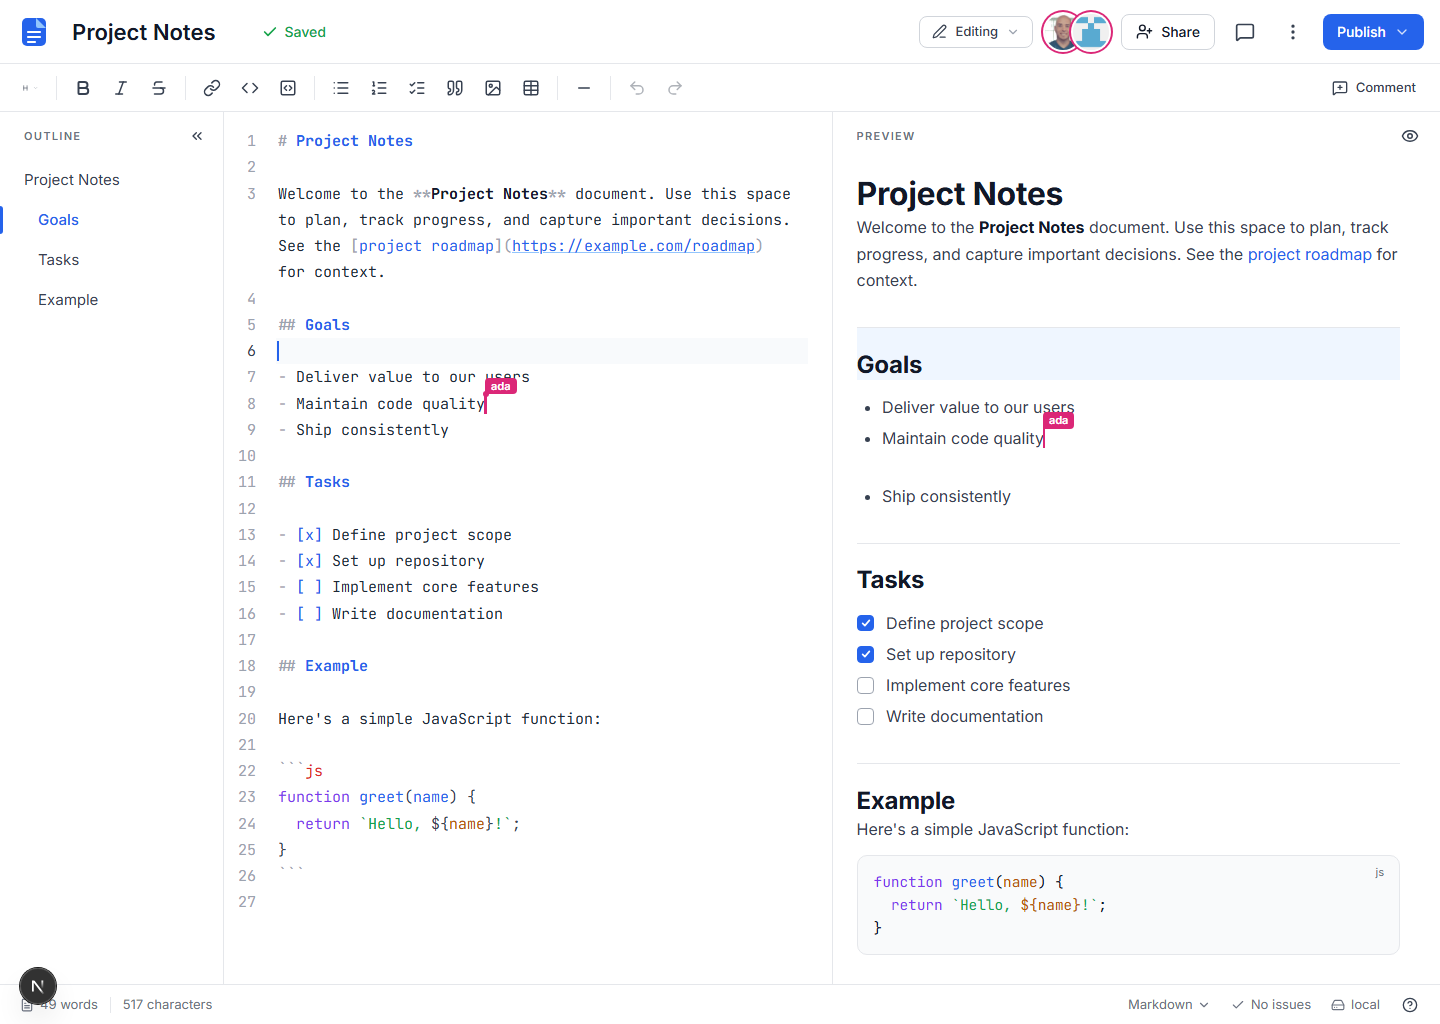
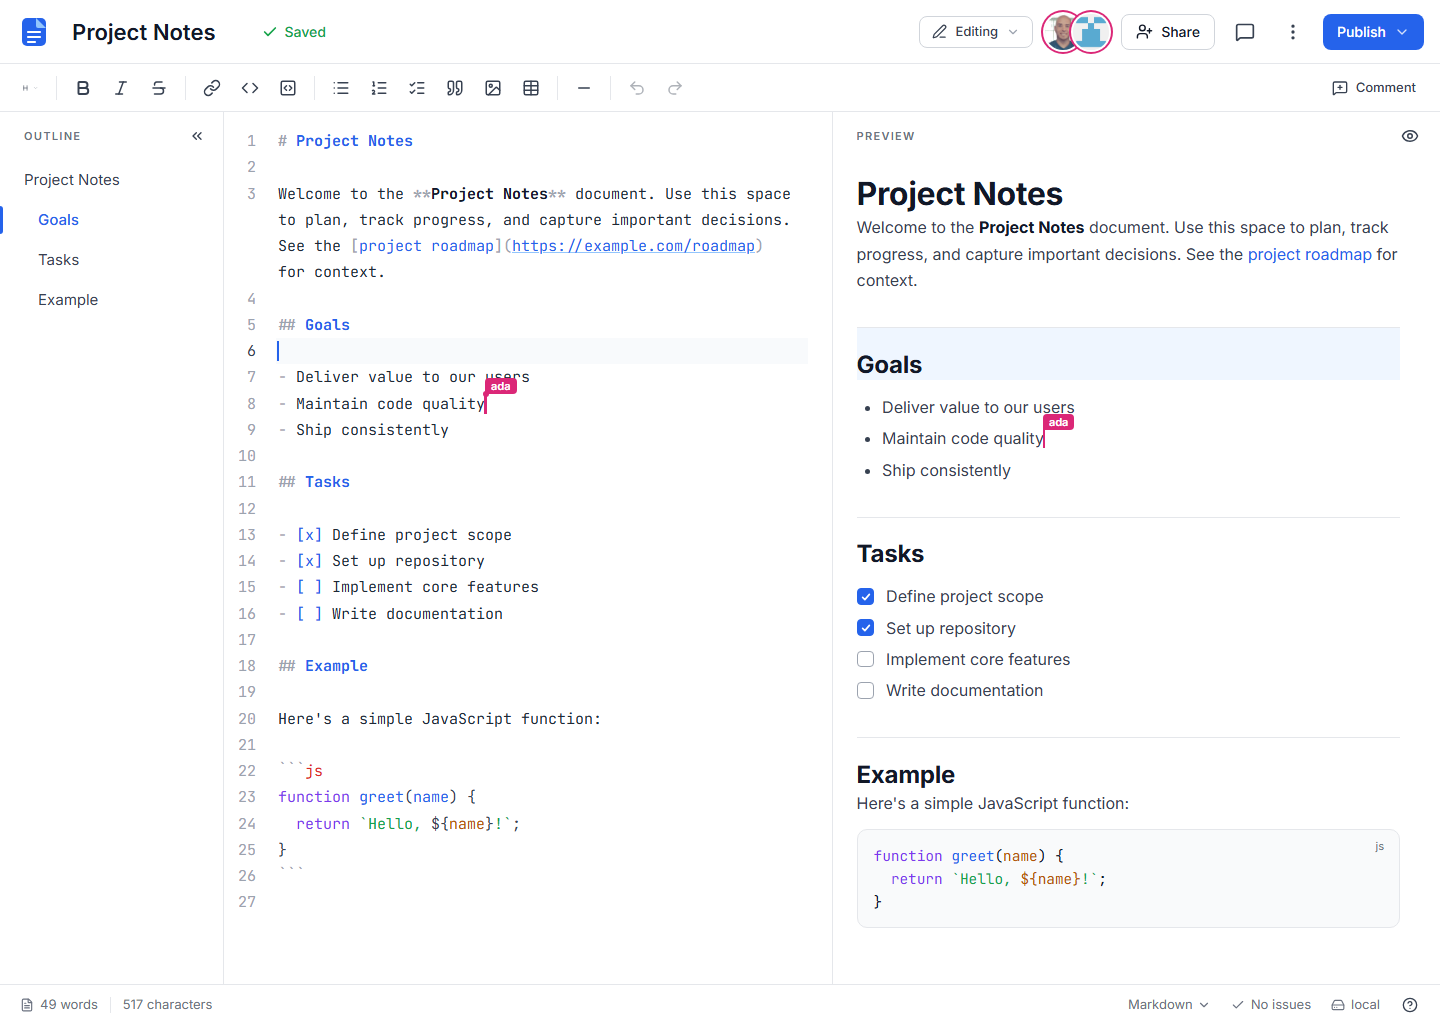
fix(ui): no blank line after remote carets at block ends; subtler cross-pane focus bar; review screenshot

diff --git a/src/app/globals.css b/src/app/globals.css
@@ -220,8 +220,11 @@ body {
   border-radius: 2px;
 }
 .md-focus-block {
-  background: #eff6ff;
-  transition: background-color 0.4s;
+  box-shadow: -3px 0 0 #bfdbfe;
+  transition: box-shadow 0.3s;
+}
+.cm-editor .cm-line.md-focus-block {
+  box-shadow: inset 3px 0 0 #bfdbfe;
 }
 
 /* ---------- Rich editor (ProseMirror) ---------- */
@@ -554,11 +557,21 @@ body {
 /* remote carets in the rich editor */
 .md-remote-caret {
   border-left: 2px solid;
+  display: inline-block;
+  height: 1.15em;
   margin-left: -1px;
   margin-right: -1px;
   pointer-events: none;
   position: relative;
+  vertical-align: text-bottom;
+  width: 0;
   word-break: normal;
+}
+/* ProseMirror adds a separator + trailing <br> after a block that ends with a widget; that would add a blank line. */
+.md-rich .md-remote-caret + .ProseMirror-separator,
+.md-rich .md-remote-caret + .ProseMirror-separator + .ProseMirror-trailingBreak,
+.md-rich .md-remote-caret + .ProseMirror-trailingBreak {
+  display: none;
 }
 .md-remote-caret > .md-remote-caret-label {
   border-radius: 4px 4px 4px 0;
@@ -605,3 +618,5 @@ body {
 .animate-fade-in {
   animation: md-fade-in 0.12s ease-out;
 }
+
+
